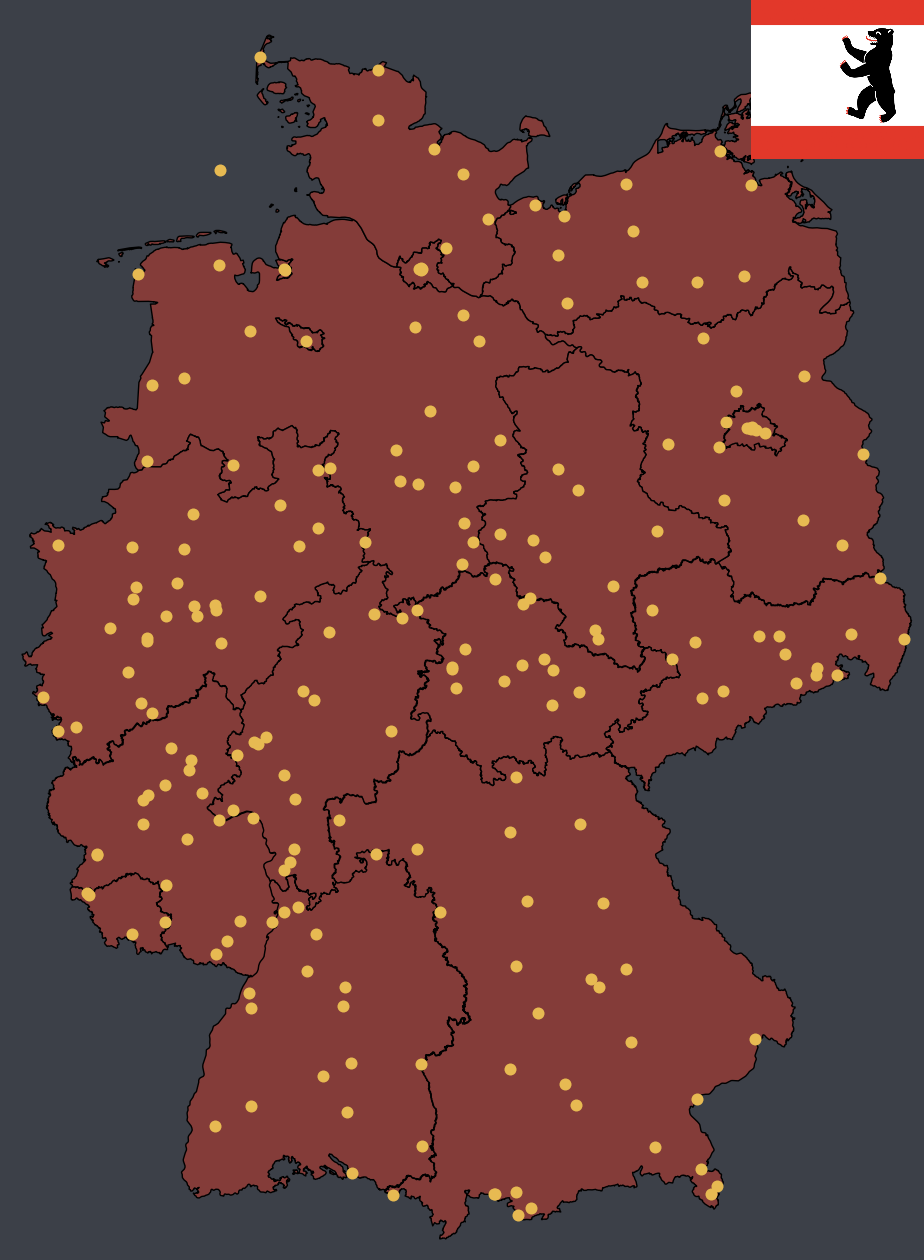
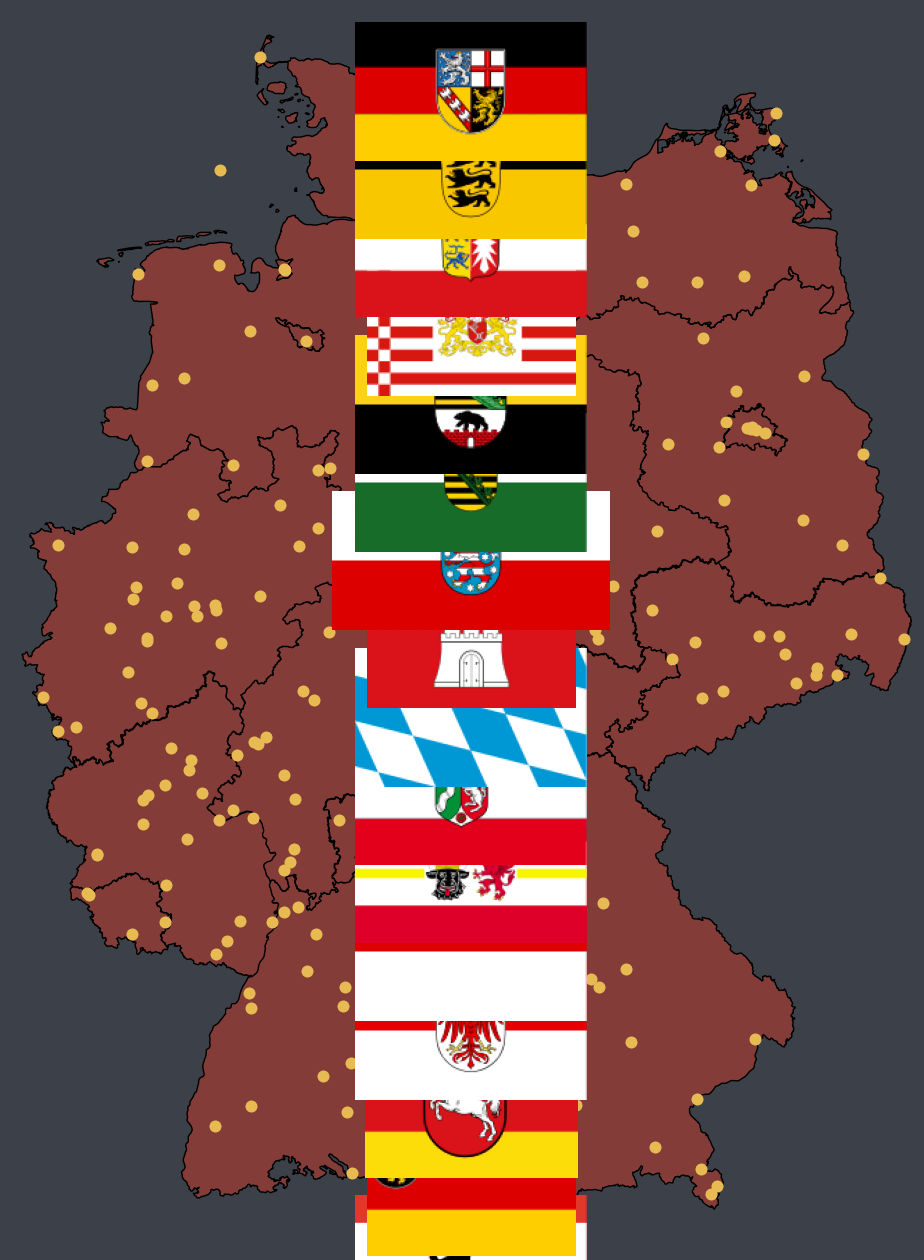
add flag covers

Changed region(s): [[0.3333, 0.0, 0.6667, 1.0], [0.7879, 0.0, 1.0, 0.1238]]

diff --git a/plotting/plotting_manager.py b/plotting/plotting_manager.py
@@ -1,5 +1,6 @@
 import os
 import matplotlib.pyplot as plt
+import matplotlib.patches as patches
 import matplotlib.image as mpimg
 from matplotlib.offsetbox import OffsetImage, AnnotationBbox
 import geopandas as gpd
@@ -102,17 +103,25 @@ class PlotManager:
             )
 
     def _plot_flags(self, ax):
-        #img = mpimg.imread(f"./{self.path}/submaps/BW.svg")
-
-        #files = os.listdir(f"{self.path}/submaps")
         png_files = [f for f in os.listdir(f"{self.path}/submaps") if f.lower().endswith(".png")]
-        for f in png_files:
-            print(f)
-        img = mpimg.imread(f"./de/submaps/{png_files[0]}")
+        for i, file in enumerate(png_files):
+            print(file)
+            img = mpimg.imread(f"./de/submaps/{file}")
 
-        imagebox = OffsetImage(img, zoom=0.2)  # adjust size with zoom
-        ab = AnnotationBbox(imagebox, (0.95, 0.95), frameon=False, xycoords='axes fraction')
-        ax.add_artist(ab)
+            imagebox = OffsetImage(img, zoom=0.75)  # adjust size with zoom
+            ab = AnnotationBbox(imagebox, (-0.075, i/len(png_files)*0.9 + 0.1), frameon=False, xycoords='axes fraction')
+            ax.add_artist(ab)
+
+            # rectangle params: (x, y), width, height
+            rect = patches.Rectangle(
+                (1, i/len(png_files)),   # bottom-left corner (x, y)
+                50, 50,     # width, height
+                linewidth=2,
+                edgecolor='r',
+                facecolor='b'
+            )
+
+            ax.add_patch(rect)
 
     def _finalize_and_save_plot(self, fig, current_date):
         plt.xlim(self.xlims)

diff --git a/main.py b/main.py
@@ -10,7 +10,7 @@ from utils.file_utils import ensure_directory_exists
 
 
 # Set global variables, directories for map creation and site locations
-SCALE = 1
+SCALE = 4
 
 # US National Park Global Variables
 #PATH = "us"
